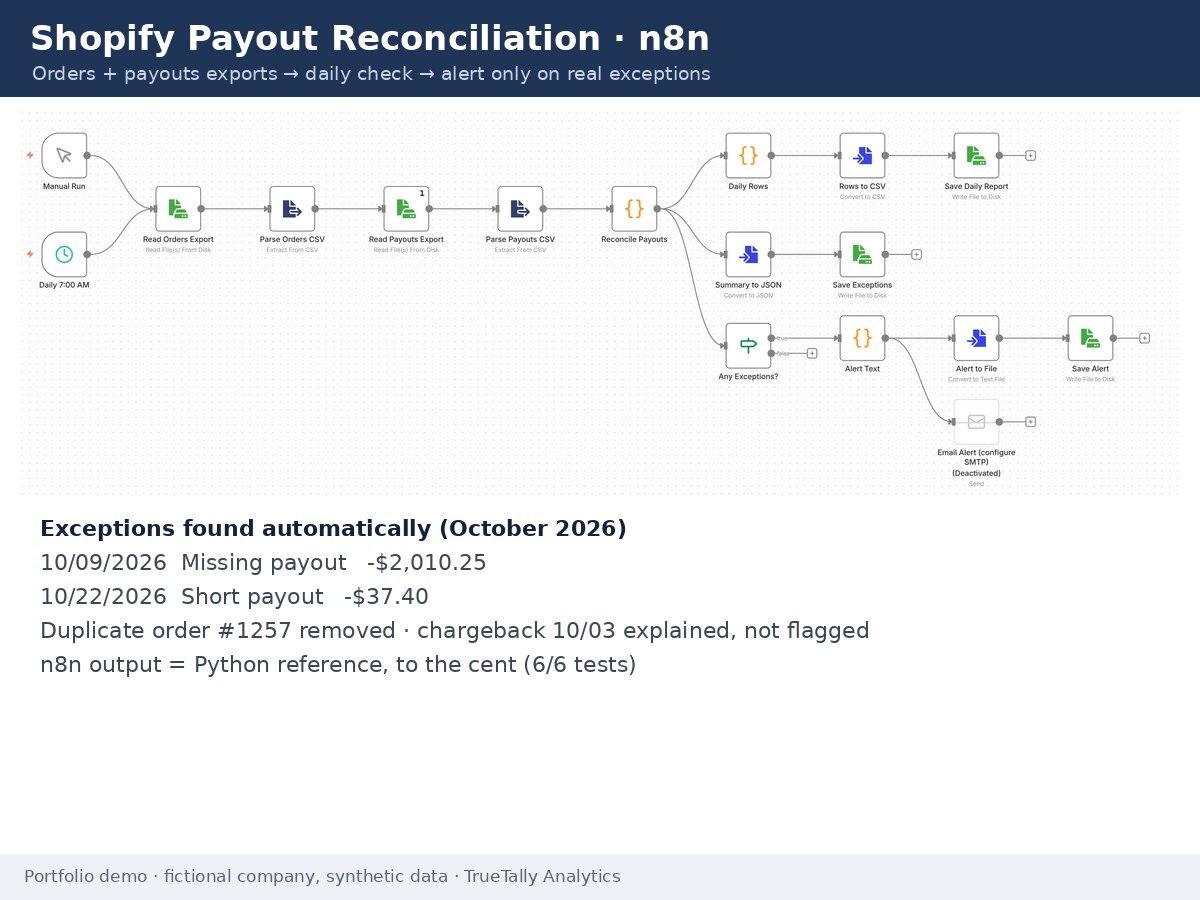
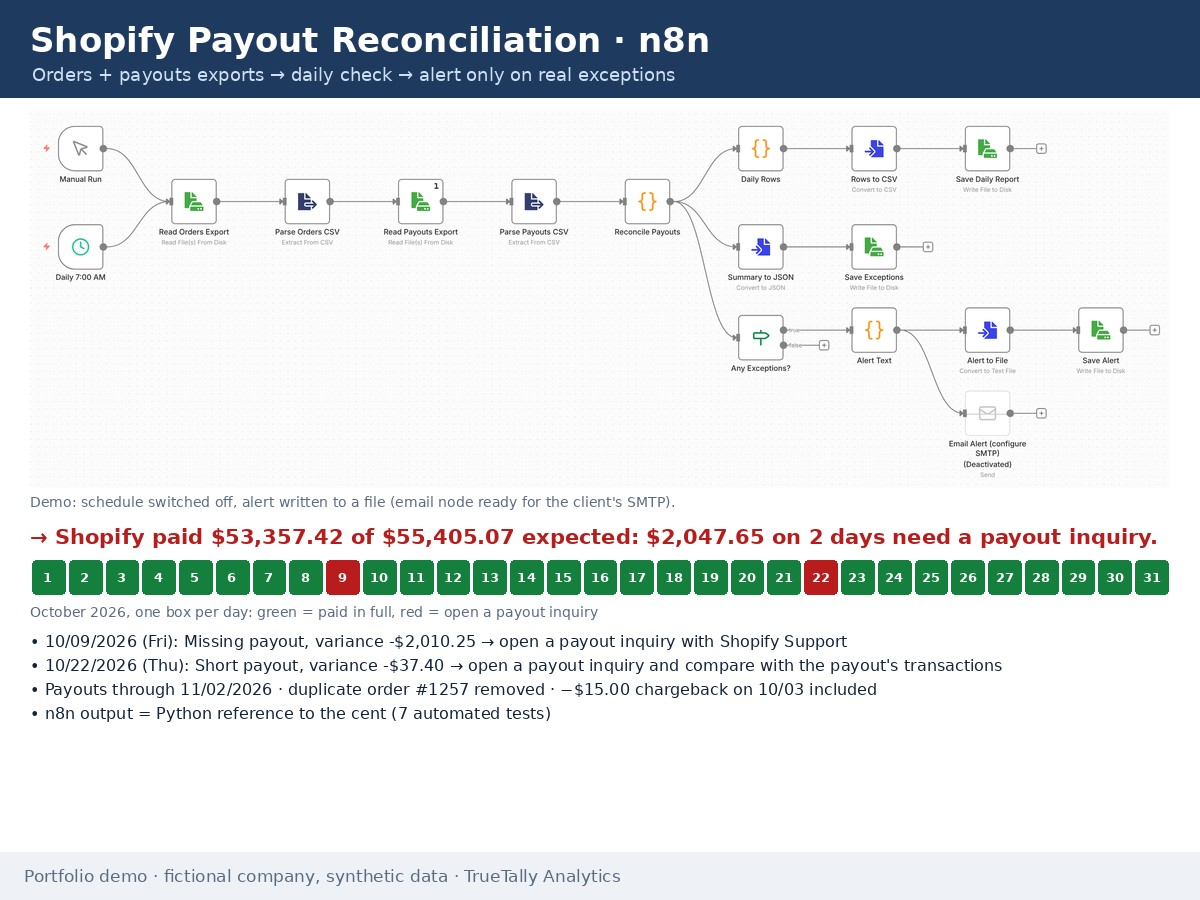
Update public portfolio site (synced from Freelancer-USA Fri 11/27/2026)

diff --git a/index.html b/index.html
@@ -83,9 +83,9 @@
       <div class="item"><img src="img/p03.jpg" alt="Budget vs actual Power BI dashboard, fictional company" loading="lazy"><div class="body"><h3>Budget vs. actual</h3><p>Which costs really ran over once variable costs are flexed to actual sales, whether payroll is too heavy in slow months, and the action for each month that missed the plan. Home-services business.</p><div class="tags"><span class="tag">Power BI</span><span class="tag">Finance</span></div></div></div>
       <div class="item"><img src="img/p09.jpg" alt="Google Sheets maintenance tracker with Apps Script, fictional company" loading="lazy"><div class="body"><h3>Maintenance tracker in Google Sheets</h3><p>Status logic, live dashboard, one-click service logging and a daily overdue email digest via Apps Script. Covered by 8 automated tests.</p><div class="tags"><span class="tag">Google Sheets</span><span class="tag">Apps Script</span></div></div></div>
       <div class="item"><img src="img/p10.jpg" alt="Excel to MySQL pipeline diagram and reconciliation checks" loading="lazy"><div class="body"><h3>Excel tracker to MySQL database</h3><p>Messy workbook cleaned in Python and loaded to a MySQL star schema. 6 of 6 reconciliation checks pass, totals match to the cent.</p><div class="tags"><span class="tag">Python</span><span class="tag">SQL</span><span class="tag">MySQL</span></div></div></div>
-      <div class="item"><img src="img/p11.jpg" alt="Multi-store sales reconciliation report" loading="lazy"><div class="body"><h3>Multi-store sales reconciliation</h3><p>Four store exports in different formats consolidated and reconciled. Missing days, duplicates and cash variances flagged in a clean Excel report.</p><div class="tags"><span class="tag">Python</span><span class="tag">pandas</span><span class="tag">Excel</span></div></div></div>
+      <div class="item"><img src="img/p11.jpg" alt="Multi-store sales reconciliation report" loading="lazy"><div class="body"><h3>Multi-store sales reconciliation</h3><p>Four store exports in different formats reconciled to bank deposits. The net variance (+$441.38) hides $521.38 to resolve on 2 store-days; the report says what to do about each one. 17 automated tests.</p><div class="tags"><span class="tag">Python</span><span class="tag">pandas</span><span class="tag">Excel</span></div></div></div>
       <div class="item"><img src="img/p12.jpg" alt="Bank reconciliation for Xero and QuickBooks Online, fictional company" loading="lazy"><div class="body"><h3>Bank reconciliation for Xero &amp; QuickBooks</h3><p>Bank statement vs. Xero or QuickBooks Online export. Ties to $0.00 and lists what to post: a returned customer check, fees, interest and a keying error that overstate book cash by $1,903. Same ledger as the Xero finance pack. 6 automated tests.</p><div class="tags"><span class="tag">Python</span><span class="tag">Xero</span><span class="tag">QuickBooks</span><span class="tag">Excel</span></div></div></div>
-      <div class="item"><img src="img/p14.jpg" alt="n8n workflow reconciling Shopify orders to payouts, fictional store" loading="lazy"><div class="body"><h3>Shopify payout reconciliation in n8n</h3><p>Daily n8n workflow reads orders and payouts exports, removes duplicates, recalculates fees and flags only real exceptions. Output matches an independent Python check to the cent (6 tests).</p><div class="tags"><span class="tag">n8n</span><span class="tag">Shopify</span><span class="tag">Automation</span></div></div></div>
+      <div class="item"><img src="img/p14.jpg" alt="n8n workflow reconciling Shopify orders to payouts, fictional store" loading="lazy"><div class="body"><h3>Shopify payout reconciliation in n8n</h3><p>Daily n8n workflow ties Shopify payouts to orders and sends one alert a client can act on: $2,047.65 still owed on 2 days, with the inquiry to open. Month view, and output that matches an independent Python check to the cent (7 tests).</p><div class="tags"><span class="tag">n8n</span><span class="tag">Shopify</span><span class="tag">Automation</span></div></div></div>
       <div class="item"><img src="img/p15.jpg" alt="Xero month-end finance pack in Power BI, fictional company" loading="lazy"><div class="body"><h3>Xero month-end finance pack</h3><p>Who to chase this week, whether cash covers next month's bills, and whether the month is ready to close. Eight tie-outs, including the bank reconciliation, must pass at $0.00. Estimates are labeled. 9 automated tests.</p><div class="tags"><span class="tag">Xero</span><span class="tag">Power BI</span><span class="tag">Finance</span></div></div></div>
       <div class="item"><img src="img/p16.jpg" alt="Inventory and logistics Power BI report from QuickBooks Online exports, fictional distributor" loading="lazy"><div class="body"><h3>Inventory &amp; logistics from QuickBooks Online</h3><p>What to reorder today, where cash is sitting, why orders are late and which suppliers put stock at risk. Every chart ends with the action to take; every report ties out to QuickBooks. 14 automated tests.</p><div class="tags"><span class="tag">QuickBooks</span><span class="tag">Power BI</span><span class="tag">Inventory</span></div></div></div>
     </div>
